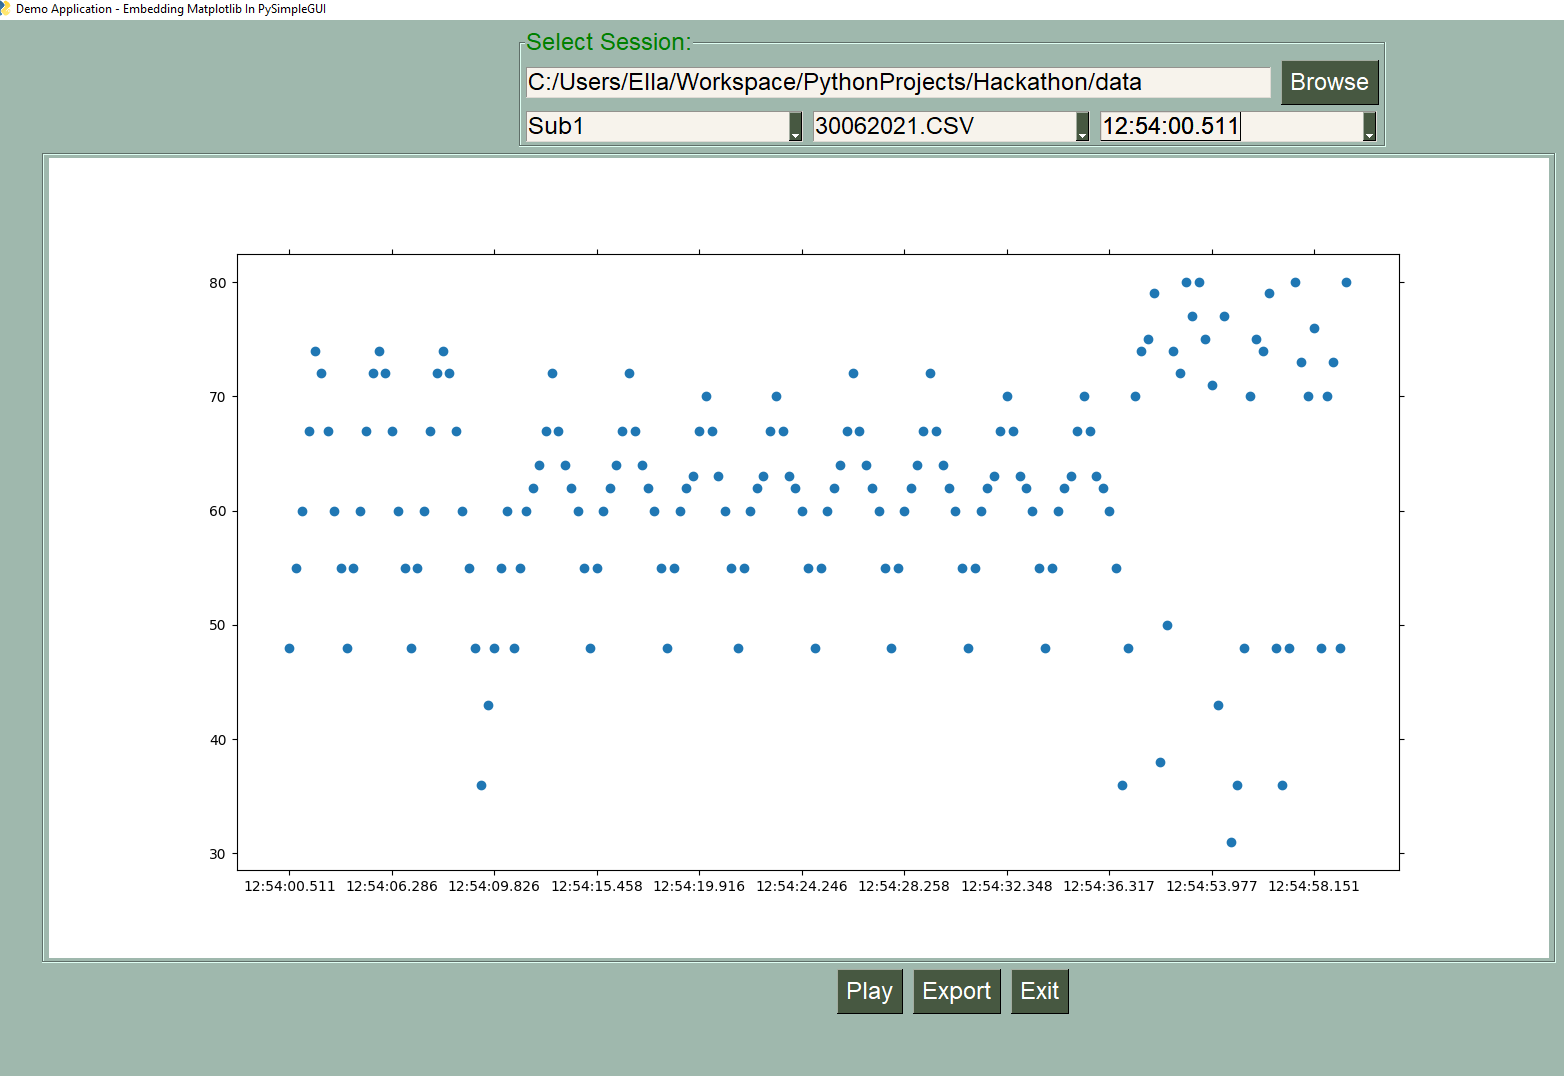
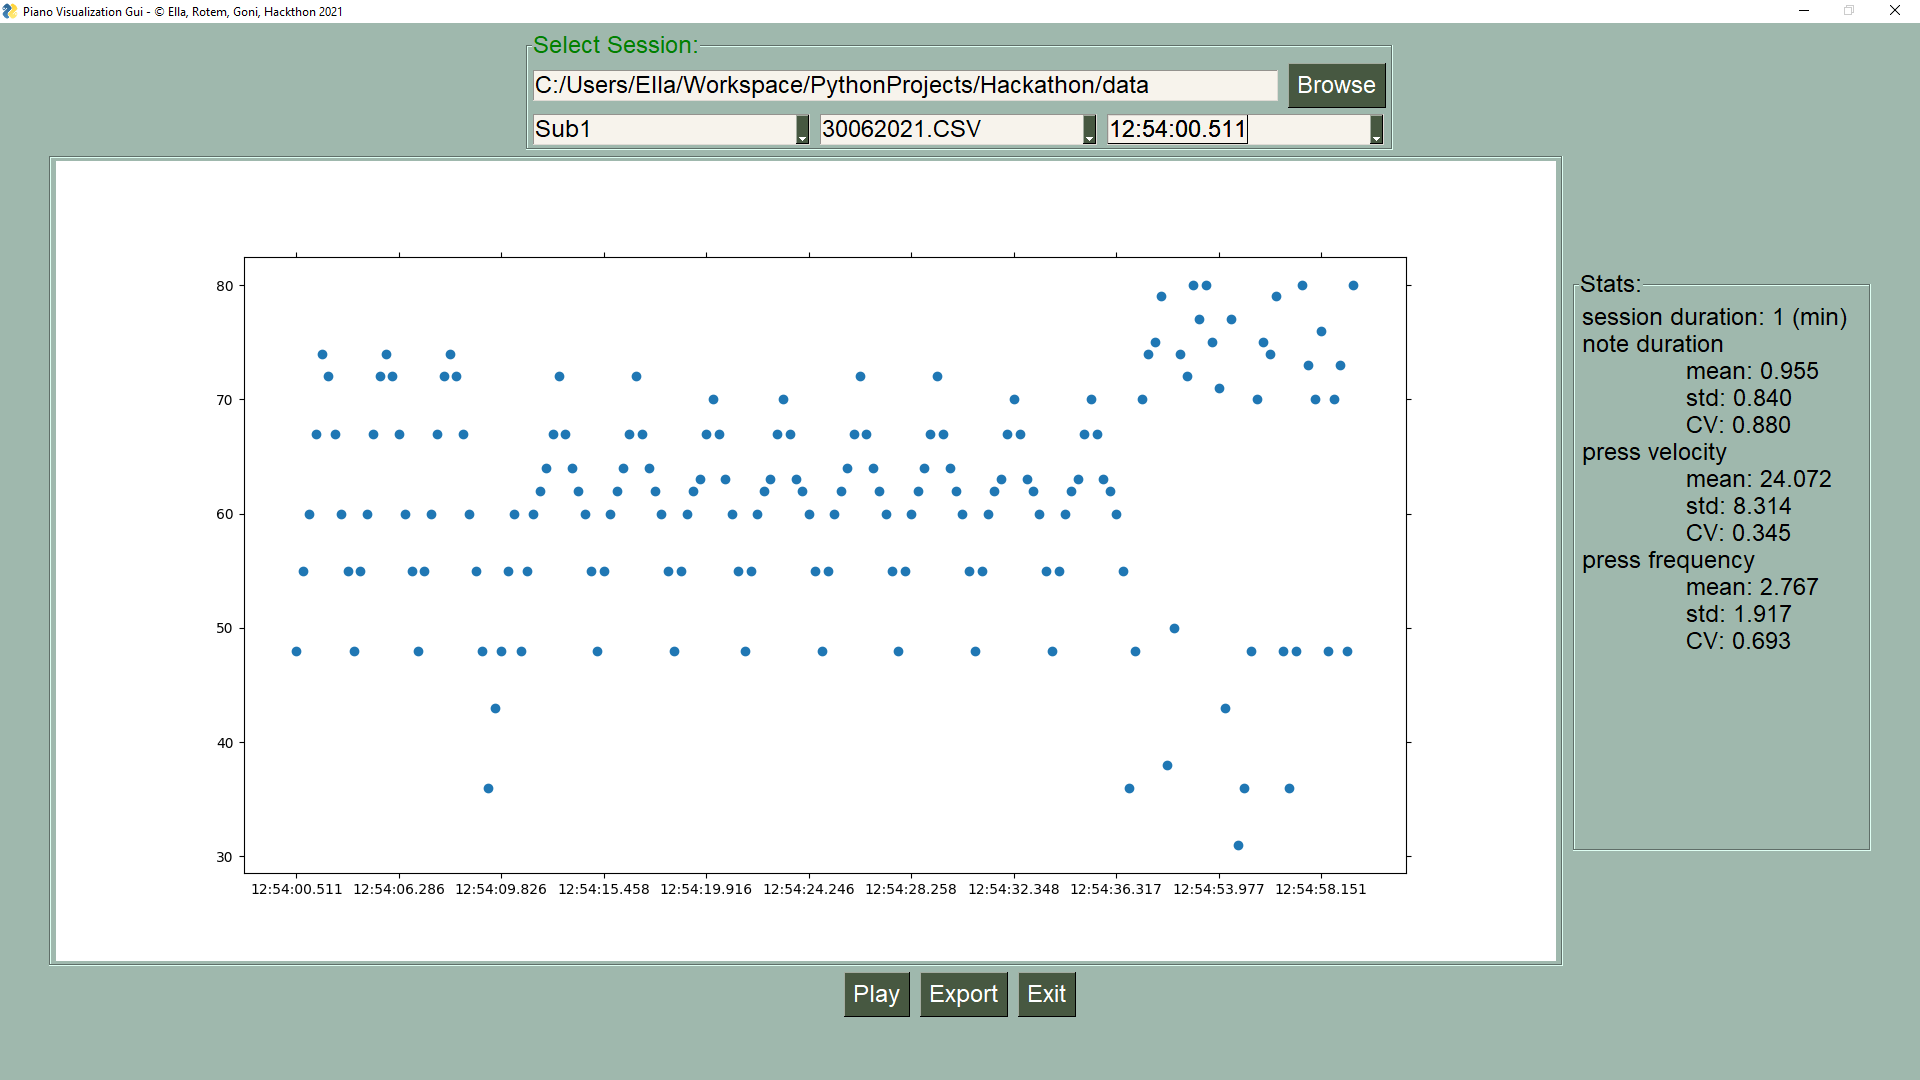
fix image

diff --git a/gui.py b/gui.py
@@ -50,7 +50,7 @@ def gui_window():
         [sg.Button('Play', key='play', disabled=True, enable_events=True), sg.Button('Export', key='export', enable_events=True, disabled=True), sg.Button('Exit')],
              ]
 
-    window = sg.Window('Demo Application - Embedding Matplotlib In PySimpleGUI', layout, finalize=True,
+    window = sg.Window('Piano Visualization Gui - © Ella, Rotem, Goni, Hackthon 2021', layout, finalize=True,
                        element_justification='center', font='Helvetica 18')
     window.Maximize()
 
